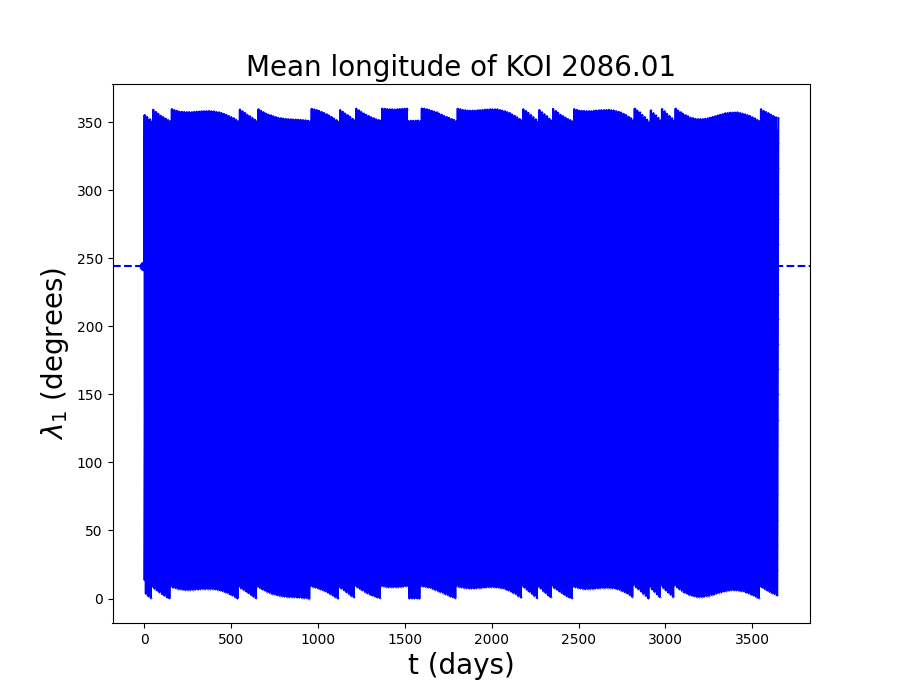
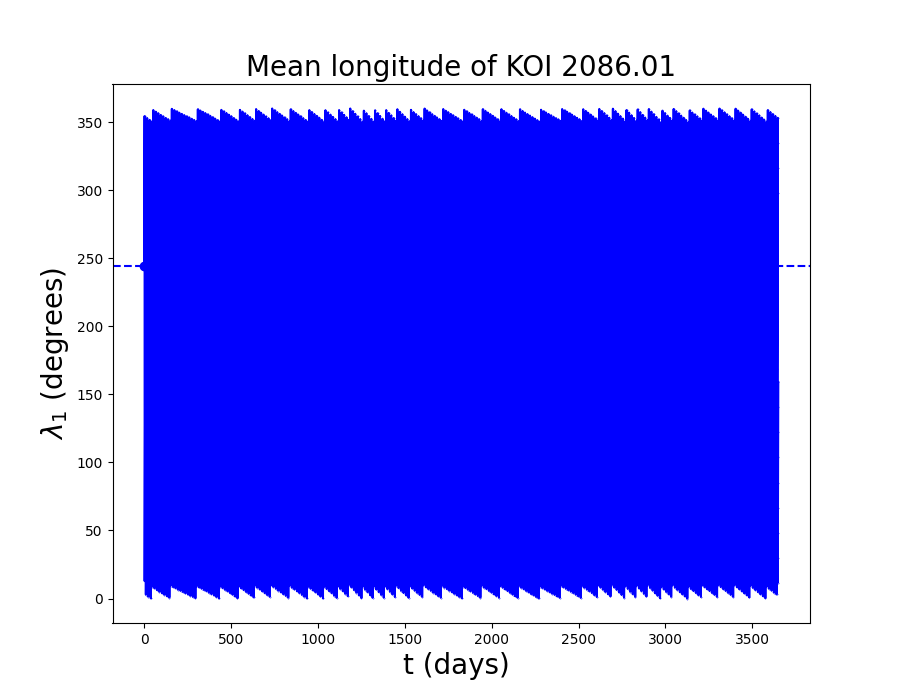
this is the first time i've updated this all semester lol

diff --git a/rounding.py b/rounding.py
@@ -1,91 +1,52 @@
 import pandas as pd
-import math
-from decimal import Decimal, getcontext, ROUND_HALF_UP
+import numpy as np
 
-input_file = "multiplanet_matches.csv"
-output_file = "multiplanet_matches_rounded.csv"
+# ========================
+# USER SETTINGS
+# ========================
+INPUT_CSV  = "resonancecandidates_triples.csv"         # <-- Change this to your input file name
+OUTPUT_CSV = "resonancecandidates_triples_rounded.csv"        # <-- Change this to your desired output file name
+COLUMNS    = ["Period_inner",'Period_middle','Period_outer','Period Ratios_inner','Period Ratios_outer','delta_inner','delta_outer','Period_ttv_inner','Period_ttv_outer','n1','n2','n3','3 Body Equation']  # <-- Columns to format (must match CSV header)
+SIGFIGS    = 6                   # <-- Number of significant figures
+# ========================
 
 
-def format_sigfigs(num, sigfigs=6):
-
-    if pd.isna(num):
-        return num
-
+def format_sigfigs(x, sigfigs=6):
+    """
+    Format a number to exactly `sigfigs` significant figures,
+    including trailing zeros if necessary. Non-numeric values
+    are returned unchanged as strings.
+    """
     try:
-        num_float = float(num)
-    except ValueError:
-        return num
-
-    if num_float == 0:
-        return '0.' + '0' * (sigfigs - 1)
-
-    sign = '-' if num_float < 0 else ''
-    num_abs = abs(num_float)
-
-    getcontext().prec = sigfigs + 2
-
-    exponent = int(math.floor(math.log10(num_abs)))
-
-    decimal_places = sigfigs - exponent - 1
-
-    d = Decimal(num_abs)
-
-    if decimal_places >= 0:
-        quantize_str = '1.' + '0' * decimal_places
-    else:
-        quantize_str = '1E' + str(-decimal_places)
-
-    rounded = d.quantize(Decimal(quantize_str), rounding=ROUND_HALF_UP)
-
-    if decimal_places >= 0:
-        fmt = f"{{0:.{decimal_places}f}}".format(rounded)
-    else:
-        fmt = f"{{0:.0f}}".format(rounded)
-
-    if '.' in fmt:
-        integer_part, fractional_part = fmt.split('.')
-        fractional_part = fractional_part.ljust(decimal_places, '0')
-        fmt = f"{integer_part}.{fractional_part}"
-
-    sigfigs_count = len(fmt.replace('.', '').replace('-', '').lstrip('0'))
-
-    if sigfigs_count < sigfigs:
-        if '.' in fmt:
-            needed = sigfigs - sigfigs_count
-            fmt += '0' * needed
+        x = float(x)
+        if x == 0:
+            return f"{0:.{sigfigs - 1}f}"  # e.g. "0.00000" for sigfigs=6
+        exponent = int(np.floor(np.log10(abs(x))))
+        decimals = sigfigs - exponent - 1
+        if decimals > 0:
+            return f"{x:.{decimals}f}"  # fixed decimal with trailing zeros
         else:
-            fmt += '.' + '0' * (sigfigs - sigfigs_count)
+            return f"{x:.{sigfigs}g}"    # scientific or integer if large
+    except (ValueError, TypeError):
+        return str(x)  # keep text as string
 
-    return sign + fmt
 
+def round_csv_columns(input_csv, output_csv, columns, sigfigs=6):
+    """
+    Format specified columns in a CSV to exactly `sigfigs` significant figures.
+    """
+    # Read as strings to preserve formatting and avoid auto-conversion
+    df = pd.read_csv(input_csv, dtype=str)
 
-def process_csv(input_file, output_file):
-    columns_to_round = ["Period_inner", "Period_outer", "Period Ratios", "delta", "Period_ttv"]
-
-    try:
-        df = pd.read_csv(input_file, dtype=str)
-    except FileNotFoundError:
-        print(f"Error: The file '{input_file}' was not found.")
-        return
-    except Exception as e:
-        print(f"Error reading '{input_file}': {e}")
-        return
-
-    for col in columns_to_round:
+    for col in columns:
         if col in df.columns:
-            df[col] = pd.to_numeric(df[col], errors='coerce')
+            df[col] = df[col].apply(lambda x: format_sigfigs(x, sigfigs))
         else:
-            print(f"Warning: Column '{col}' not found in the CSV.")
+            print(f"⚠ Warning: Column '{col}' not found in CSV.")
 
-    for col in columns_to_round:
-        if col in df.columns:
-            df[col] = df[col].apply(lambda x: format_sigfigs(x) if pd.notnull(x) else x)
-
-    try:
-        df.to_csv(output_file, index=False)
-        print(f"Processed CSV saved to '{output_file}'.")
-    except Exception as e:
-        print(f"Error writing to '{output_file}': {e}")
+    df.to_csv(output_csv, index=False)
+    print(f"✅ Rounded CSV saved to: {output_csv}")
 
 
-process_csv(input_file, output_file)
+if __name__ == "__main__":
+    round_csv_columns(INPUT_CSV, OUTPUT_CSV, COLUMNS, SIGFIGS)

diff --git a/Rebound2086_2.py b/Rebound2086_2.py
@@ -1,0 +1,96 @@
+import rebound
+from numpy import *
+import matplotlib.pyplot as plt
+
+sim = rebound.Simulation()
+
+Mearth = 1.0/332940.0
+GMsun = 1.3271244e20 # [m3 s-2]
+au = 149597870700.0 # [m]
+G = GMsun*(86400**2)/au**3 # au, days, Msun
+
+sim.units = ('days','AU','Msun')
+print(sim.G)
+
+#star/COM
+sim.add(m=1)
+#2086.01 // Start with innermost planet, go outwards
+sim.add(m=1.2098813600048056e-05,P=7.13295045,e=0.027303123741573964,omega=3.5057952389036373, M=0.7507693105345155)
+#2086.02 // Period is in days, convert to years (Divide by 365.2425)
+sim.add(m=1.1053898600348412e-05,P=8.91897737,e=0.04989897203081442,omega=2.7994508629651906, M=4.344842555270112)
+#2086.03 // mass ≈ R_p ^ 3 in Earth masses if radius of planet > 1.7 earth radii, then divide by 332946 to convert to solar masses
+sim.add(m=1.1743689553673334e-05, P=11.89824703,e=0.020581611655147415,omega=3.8082118927466717, M=0.7459431943854113)
+#2086.04
+#sim.add(m=(1.836**3)/332946,P=335.5198537,theta=3.1986270262231145)
+
+os = sim.orbits()
+print("n_i (in rad/days) = %6.3f, %6.3f, %6.3f" % (os[0].n,os[1].n,os[2].n))
+print("P_i (in days)     = %6.3f, %6.3f, %6.3f" % (os[0].P,os[1].P,os[2].P))
+
+Tfinal= 10*365
+Nout = 10000 # number of printed out timesteps.
+
+phi = zeros(Nout)
+l1,l2,l3 = zeros(Nout), zeros(Nout), zeros(Nout)
+
+p,q = 4, 4
+
+times = linspace(0.,Tfinal,Nout)
+for i,time in enumerate(times):
+    sim.integrate(time)
+    l1[i],l2[i],l3[i] = sim.particles[1].l,sim.particles[2].l,sim.particles[3].l
+    phi[i] = p*l1[i]-(p+q)*l2[i]+q*l3[i]
+sim.move_to_com()
+
+#radian to degree conversion
+phi_degrees = (phi*180/pi) % 360
+print(phi_degrees)
+
+op = rebound.OrbitPlot(sim,unitlabel="[AU]", color="blue", figsize=[5.5,5])
+op.ax.set_title("KOI 2086 (aka Kepler-60)")
+
+labels = ["Star", "2086.01", "2086.02", "2086.03", "2086.04"]
+for i, p in enumerate(sim.particles):
+    x, y, _ = p.xyz
+    op.ax.text(x-0.0115, y+0.006, labels[i], fontsize=8, color="black")
+
+op.fig.savefig("orbit2086.png")
+
+fig = plt.figure(figsize=(9,7))
+ax = plt.subplot(111)
+ax.plot(times/365.2425,phi_degrees, 'b', marker=".", markersize=.5)
+ax.set_xlabel("t (years)", fontsize=20)
+ax.set_ylabel("$\Phi$ (degrees)", fontsize=20)
+ax.set_title("Resonant Argument of KOI 2086 (aka Kepler-60)",fontsize=20)
+ax.annotate("p = 4, q = 4",xy=(9,360))
+#ax.legend(fontsize=24)
+plt.savefig("phichart2086.png")
+
+fig = plt.figure(figsize=(9,7))
+ax = plt.subplot(111)
+ax.plot(times,l1*180/pi, 'b', marker=".", markersize=.5)
+ax.set_xlabel("t (days) ", fontsize=20)
+ax.set_ylabel("$\lambda_1$ (degrees)", fontsize=20)
+ax.set_title("Mean longitude of KOI 2086.01",fontsize=20)
+plt.axhline(y=(4.268962021689864*180/pi), color='b', linestyle='--')
+ax.plot([0,7.13295045],[4.268962021689864*180/pi,4.268962021689864*180/pi],'bo')
+ax.annotate("(0,244.6$\degree$)",xy=(-0.4,230),color='b')
+ax.annotate("(7.13295045,244.6$\degree$)",xy=(7.1,230),color='b')
+#ax.legend(fontsize=24)
+plt.savefig("lamdbachart2086.png")
+
+fig = plt.figure(figsize=(9,7))
+ax = plt.subplot(111)
+ax.plot(times,(4*l1*180/pi-4*l2*180/pi) % 360, 'b', marker=".", markersize=.5)
+ax.set_xlabel("t (days) ", fontsize=20)
+ax.set_ylabel("$p*\lambda_1 - q*\lambda_2$ (degrees)", fontsize=20)
+#ax.legend(fontsize=24)
+ax.set_title("Mean longitude of KOI 2086.01 - KOI 2086.02",fontsize=20)
+ax.annotate("p = 4, q = 4",xy=(27.25,365))
+plt.savefig("lamdbaequationchart2086.png")
+
+for p in sim.particles:
+    print("x/y values of each particle:", p.x, p.y)
+for o in sim.orbits():
+    print("orbit properties:", o)
+

diff --git a/Rebound2086.py b/Rebound2086.py
@@ -15,13 +15,13 @@ print(sim.G)
 #star/COM
 sim.add(m=1)
 #2086.01 // Start with innermost planet, go outwards
-sim.add(m=(1.734**3)/332946,P=7.13295045,theta=4.268962021689864)
+sim.add(m=1.2098813600048056e-05,P=7.13295045,T=9.419586,e=0.027303123741573964)
 #2086.02 // Period is in days, convert to years (Divide by 365.2425)
-sim.add(m=(1.943**3)/332946,P=8.91897737,theta=1.6340637234308417)
+sim.add(m=1.1053898600348412e-05,P=8.91897737,T=6.599425,e=0.04989897203081442)
 #2086.03 // mass ≈ R_p ^ 3 in Earth masses if radius of planet > 1.7 earth radii, then divide by 332946 to convert to solar masses
-sim.add(m=(1.756**3)/332946, P=11.89824703,theta=6.145702704123614)
+sim.add(m=1.1743689553673334e-05, P=11.89824703,T=12.158593,e=0.020581611655147415)
 #2086.04
-sim.add(m=(1.836**3)/332946,P=335.5198537,theta=3.1986270262231145)
+sim.add(m=(1.836**3)/332946,P=335.5198537,T=-170.805542)
 
 os = sim.orbits()
 print("n_i (in rad/days) = %6.3f, %6.3f, %6.3f" % (os[0].n,os[1].n,os[2].n))

diff --git a/Rebound707.py b/Rebound707.py
@@ -30,7 +30,7 @@ os = sim.orbits()
 print("n_i (in rad/days) = %6.3f, %6.3f, %6.3f" % (os[0].n,os[1].n,os[2].n))
 print("P_i (in days)     = %6.3f, %6.3f, %6.3f" % (os[0].P,os[1].P,os[2].P))
 
-Tfinal= 100*365
+Tfinal= 10*365
 Nout = 1000 # number of printed out timesteps.
 
 phi = zeros(Nout)
